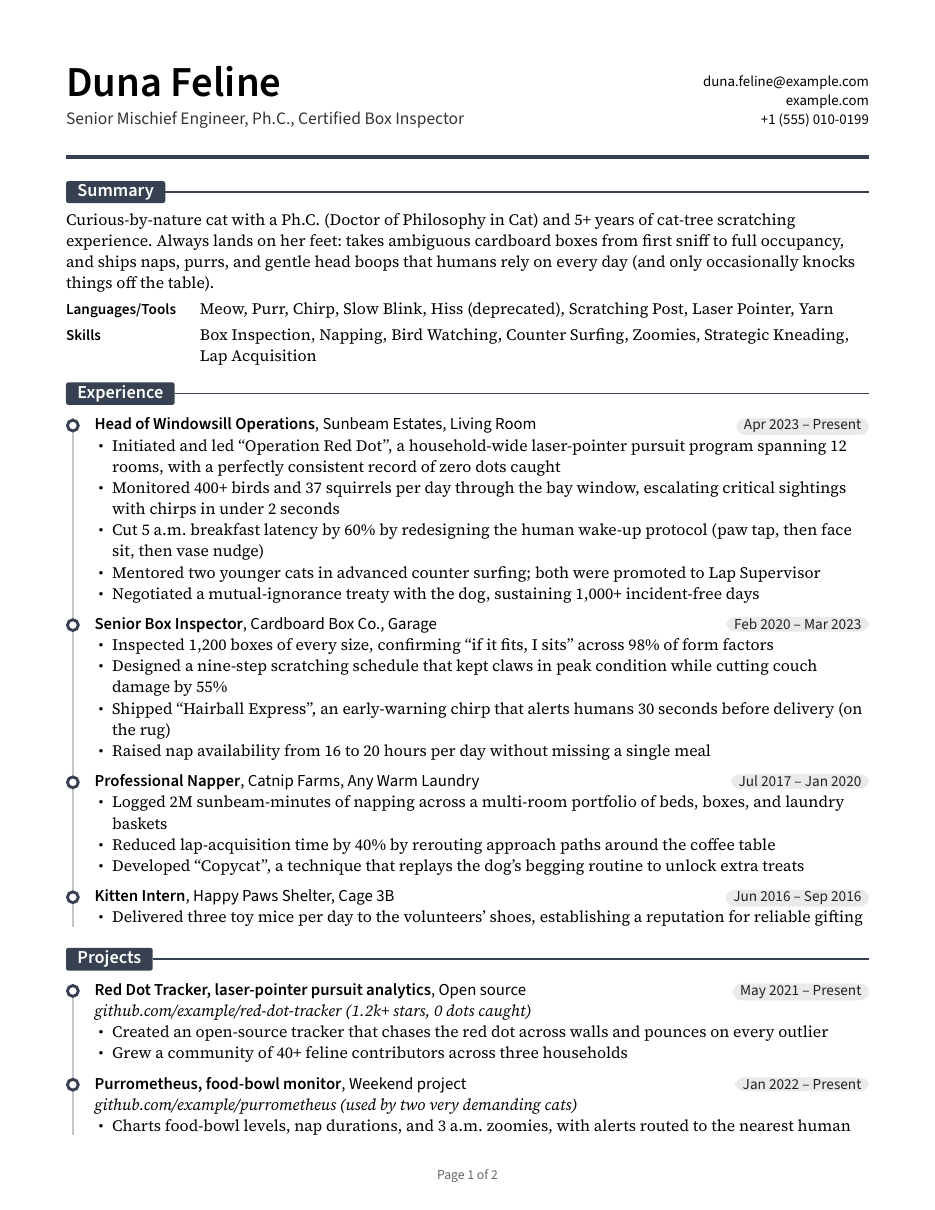
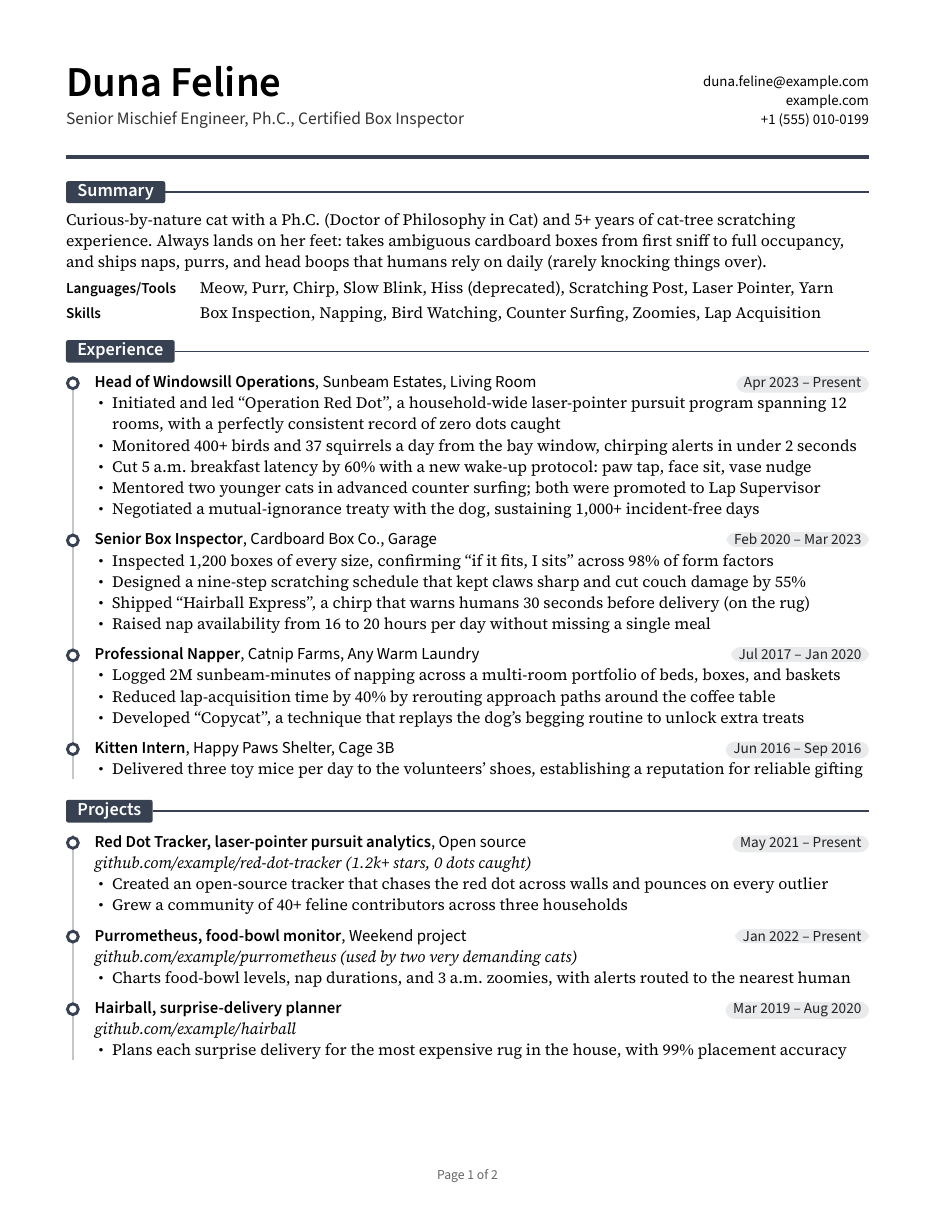
feat: sort publications, place awards after the venue, and flag short lines

Changed region(s): [[0.062, 0.214, 0.9305, 0.9479]]

diff --git a/canonical/resume.tex b/canonical/resume.tex
@@ -6,28 +6,28 @@
 \begin{document}
 
 \begin{summary}
-  Curious-by-nature cat with a Ph.C.\ (Doctor of Philosophy in Cat) and 5+ years of cat-tree scratching experience. Always lands on her feet: takes ambiguous cardboard boxes from first sniff to full occupancy, and ships naps, purrs, and gentle head boops that humans rely on every day (and only occasionally knocks things off the table).
+  Curious-by-nature cat with a Ph.C.\ (Doctor of Philosophy in Cat) and 5+ years of cat-tree scratching experience. Always lands on her feet: takes ambiguous cardboard boxes from first sniff to full occupancy, and ships naps, purrs, and head boops that humans rely on daily (rarely knocking things over).
   \skills{Languages/Tools}{Meow, Purr, Chirp, Slow Blink, Hiss (deprecated), Scratching Post, Laser Pointer, Yarn}
-  \skills{Skills}{Box Inspection, Napping, Bird Watching, Counter Surfing, Zoomies, Strategic Kneading, Lap Acquisition}
+  \skills{Skills}{Box Inspection, Napping, Bird Watching, Counter Surfing, Zoomies, Lap Acquisition}
 \end{summary}
 
 \begin{experience}
   \begin{role}{windowsill}
     \item Initiated and led ``Operation Red Dot'', a household-wide laser-pointer pursuit program spanning 12 rooms, with a perfectly consistent record of zero dots caught
-    \item Monitored 400+ birds and 37 squirrels per day through the bay window, escalating critical sightings with chirps in under 2 seconds
-    \item Cut 5 a.m.\ breakfast latency by 60\% by redesigning the human wake-up protocol (paw tap, then face sit, then vase nudge)
+    \item Monitored 400+ birds and 37 squirrels a day from the bay window, chirping alerts in under 2 seconds
+    \item Cut 5 a.m.\ breakfast latency by 60\% with a new wake-up protocol: paw tap, face sit, vase nudge
     \item Mentored two younger cats in advanced counter surfing; both were promoted to Lap Supervisor
     \item Negotiated a mutual-ignorance treaty with the dog, sustaining 1,000+ incident-free days
   \end{role}
   \begin{role}{cardboard}
     \item Inspected 1,200 boxes of every size, confirming ``if it fits, I sits'' across 98\% of form factors
-    \item Designed a nine-step scratching schedule that kept claws in peak condition while cutting couch damage by 55\%
-    \item Shipped ``Hairball Express'', an early-warning chirp that alerts humans 30 seconds before delivery (on the rug)
+    \item Designed a nine-step scratching schedule that kept claws sharp and cut couch damage by 55\%
+    \item Shipped ``Hairball Express'', a chirp that warns humans 30 seconds before delivery (on the rug)
     \item Raised nap availability from 16 to 20 hours per day without missing a single meal
       % \item Briefly piloted a sock-collection program (paused after the humans noticed)
   \end{role}
   \begin{role}{catnip-farms}
-    \item Logged 2M sunbeam-minutes of napping across a multi-room portfolio of beds, boxes, and laundry baskets
+    \item Logged 2M sunbeam-minutes of napping across a multi-room portfolio of beds, boxes, and baskets
     \item Reduced lap-acquisition time by 40\% by rerouting approach paths around the coffee table
     \item Developed ``Copycat'', a technique that replays the dog's begging routine to unlock extra treats
   \end{role}

diff --git a/tests/cases/page-breaks.tex b/tests/cases/page-breaks.tex
@@ -8,6 +8,13 @@
 \defrole{test-r4}{title = {Role 4}, org = {Org}, start = 2020-05, end = present}
 \defrole{test-r5}{title = {Role 5}, org = {Org}, start = 2020-06, end = present}
 \defproject{test-p}{title = {Project}, start = 2020-01, end = present}
+\defpub{test-pub0}{title = {Publication Title Number 0 That Wraps Onto a Second Line in the Layout}, venue = {Proc. of the Test Conference}, date = 2010-01, authors = {Author One, Author Two, and Author Three}}
+\defpub{test-pub1}{title = {Publication Title Number 1 That Wraps Onto a Second Line in the Layout}, venue = {Proc. of the Test Conference}, date = 2011-01, authors = {Author One, Author Two, and Author Three}}
+\defpub{test-pub2}{title = {Publication Title Number 2 That Wraps Onto a Second Line in the Layout}, venue = {Proc. of the Test Conference}, date = 2012-01, authors = {Author One, Author Two, and Author Three}}
+\defpub{test-pub3}{title = {Publication Title Number 3 That Wraps Onto a Second Line in the Layout}, venue = {Proc. of the Test Conference}, date = 2013-01, authors = {Author One, Author Two, and Author Three}}
+\defservice{test-s0}{text = {Service Item 0}, years = {2020}}
+\defservice{test-s1}{text = {Service Item 1}, years = {2020}}
+\defservice{test-s2}{text = {Service Item 2}, years = {2020}}
 \begin{document}
 \begin{summary}
   Summary text that takes a little space.
@@ -50,4 +57,6 @@
     \item Bullet text that is long enough to wrap onto a second line so the scan exercises multi-line bullets inside the spine
   \end{project}
 \end{projects}
+\publications{test-pub0, test-pub1, test-pub2, test-pub3}
+\service{test-s0, test-s1, test-s2}
 \end{document}

diff --git a/tests/cases/rendering.tex b/tests/cases/rendering.tex
@@ -8,8 +8,8 @@
 % expect-text: Example University — B.S. in Testing
 % expect-text: Dissertation: On Tests
 % expect-text: Are Tests Ready Yet? Proc. of Testing 2020
-% expect-text: A Paper Title. Journal of Tests
-% expect-text: Ada Lovelace, Test Author, and André Weil Best Paper Award
+% expect-text: A Paper Title. Journal of Tests Best Paper Award
+% expect-text: Ada Lovelace, Test Author, and André Weil
 % expect-text: Top 5% of class
 % expect-text: Languages/Tools
 % expect-text: Security-focused
@@ -21,8 +21,8 @@
 \defproject{test-solo}{title = {Solo Project}, start = 2018-08, end = 2019-12}
 \defdegree{test-phd}{school = {Example University}, location = {Testville}, degree = {Ph.D. in Testing}, start = 2015-09, end = 2020-05, dissertation = {On Tests}}
 \defdegree{test-bs}{school = {Example University}, degree = {B.S. in Testing}, start = 2011-09, end = 2015-06}
-\defpub{test-question}{title = {Are Tests Ready Yet?}, venue = {Proc. of Testing 2020}, authors = {Test Author}}
-\defpub{test-award}{title = {A Paper Title}, venue = {Journal of Tests}, authors = {Ada Lovelace, Test Author, and André Weil}, award = {Best Paper Award}}
+\defpub{test-question}{title = {Are Tests Ready Yet?}, venue = {Proc. of Testing 2020}, date = 2020-06, authors = {Test Author}}
+\defpub{test-award}{title = {A Paper Title}, venue = {Journal of Tests}, date = 2019-01, authors = {Ada Lovelace, Test Author, and André Weil}, award = {Best Paper Award}}
 \defhonor{test-percent}{text = {Top 5\% of class}, years = {2013, 2014}}
 \name{Test Author}  % independent of common/profile.tex, so this case is shared verbatim
 \headline{}

diff --git a/common/facts/publications.tex b/common/facts/publications.tex
@@ -1,24 +1,28 @@
 % Publications. The profile name is set in bold automatically in author lists.
-% Cite with \publications{<key>, <key>, ...}; entries are numbered in citation order.
+% Cite with \publications{<key>, <key>, ...}; entries print newest first by date (YYYY-MM).
 % Sample persona Duna Feline: papers and venues are fictional.
 \defpub{feline2019curiosity}{
   title = {Curiosity Killed the Rat: A Field Study of Indoor Rodent Detection},
   venue = {Proc. of the Annual Conference on Whisker Sciences (ACWS 2019)},
+  date = 2019-07,
   authors = {Duna Feline, Dudu Whiskers, and Nangnang Mittens},
   award = {Best Paper Award},
 }
 \defpub{whiskers2017box}{
   title = {If It Fits, It Sits: Are Cardboard Boxes Ready for Production?},
   venue = {Proc. of the Workshop on Boxes and Containers (WBC 2017)},
+  date = 2017-10,
   authors = {Dudu Whiskers, Duna Feline, and Mochi Paws},
 }
 \defpub{feline2016yarn}{
   title = {Untangling the Yarn: An Incremental Approach to Knot Resolution},
   venue = {Journal of Feline Engineering, vol. 9},
+  date = 2016-04,
   authors = {Duna Feline and Nangnang Mittens},
 }
 \defpub{feline2015flap}{
   title = {Schrödinger's Cat Flap: Doors That Are Both Open and Closed},
   venue = {Proc. of the Workshop on Hot Topics in Doors (HotDoors 2015)},
+  date = 2015-05,
   authors = {Duna Feline, Mochi Paws, and Dudu Whiskers},
 }

diff --git a/applications/2026-09-granary-senior-mouser/resume.tex b/applications/2026-09-granary-senior-mouser/resume.tex
@@ -13,14 +13,14 @@
 
 \begin{experience}
   \begin{role}{windowsill}
-    \item Monitored 400+ birds and 37 squirrels per day through the bay window, escalating critical sightings with chirps in under 2 seconds
+    \item Monitored 400+ birds and 37 squirrels a day from the bay window, chirping alerts in under 2 seconds
     \item Initiated and led ``Operation Red Dot'', a household-wide laser-pointer pursuit program spanning 12 rooms, with a perfectly consistent record of zero dots caught
     \item Mentored two younger cats in advanced counter surfing; both were promoted to Lap Supervisor
   \end{role}
   \begin{role}{cardboard}
     \item Inspected 1,200 boxes of every size, confirming ``if it fits, I sits'' across 98\% of form factors
-    \item Shipped ``Hairball Express'', an early-warning chirp that alerts humans 30 seconds before delivery (on the rug)
-    \item Designed a nine-step scratching schedule that kept claws in peak condition while cutting couch damage by 55\%
+    \item Shipped ``Hairball Express'', a chirp that warns humans 30 seconds before delivery (on the rug)
+    \item Designed a nine-step scratching schedule that kept claws sharp and cut couch damage by 55\%
   \end{role}
   \begin{role}{catnip-farms}
     \item Reduced lap-acquisition time by 40\% by rerouting approach paths around the coffee table

diff --git a/tests/cases/pub-order.tex b/tests/cases/pub-order.tex
@@ -1,0 +1,10 @@
+% expect: ok
+% expect-order: Newest Author | Middle Author | Same Month Author | Oldest Author
+\documentclass{resume}
+\defpub{test-old}{title = {Old}, venue = {V}, date = 2015-03, authors = {Oldest Author}}
+\defpub{test-new}{title = {New}, venue = {V}, date = 2024-11, authors = {Newest Author}}
+\defpub{test-mid}{title = {Mid}, venue = {V}, date = 2019-06, authors = {Middle Author}}
+\defpub{test-tie}{title = {Tie}, venue = {V}, date = 2019-06, authors = {Same Month Author}}
+\begin{document}
+\publications{test-old, test-mid, test-new, test-tie}
+\end{document}

diff --git a/tests/cases/bad-pub-date.tex b/tests/cases/bad-pub-date.tex
@@ -1,0 +1,6 @@
+% expect: error The pub 'test-pub' has date 'present'
+\documentclass{resume}
+\defpub{test-pub}{title = {T}, venue = {V}, date = present, authors = {A}}
+\begin{document}
+\publications{test-pub}
+\end{document}

diff --git a/README.md b/README.md
@@ -20,17 +20,17 @@ can't drift, and a template that is tested like code.
 
 ## ✨ Why this template is different
 
-|                                      |                                                                                                                                                                                                                              |
-| ------------------------------------ | ---------------------------------------------------------------------------------------------------------------------------------------------------------------------------------------------------------------------------- |
-| 🎨 **Modern, readable design**       | A single column with graphite section tabs, a timeline **spine** that links your roles and keeps flowing across page breaks, date pills, and Source Serif 4 + Source Sans 3 at a comfortable 10.5pt.                         |
-| 🧱 **Content-only resume files**     | The class owns the header, layout, and section order. Each `resume.tex` is just your summary, bullets, and a few keys. Drop a section by leaving it out.                                                                     |
-| 📚 **Facts live once**               | Job titles, dates, degrees, publications, service, and honors are defined once in `common/facts/` and cited by key. Your name is bolded in author lists automatically. Titles and author lists can't drift between versions. |
-| 🚨 **Typos fail the build**          | A wrong key, a missing field, a duplicate section, or an impossible date like `2024-13` stops the build with a message that names it.                                                                                        |
-| 📐 **No awkward page breaks**        | Pages break between bullets, never between a role title and its first bullet or a heading and its first entry. A test sweeps 51 page positions to prove it.                                                                  |
-| 🎯 **Canonical → tailored workflow** | Keep one complete canonical resume. `just new <company> <role>` snapshots it, with a `jd.md` and a `notes.md` that record why each variant differs.                                                                          |
-| 🤖 **Claude Code skills**            | `/customize-resume <JD>` and `/update-resume` run the workflows step by step; `CLAUDE.md` holds the rules (never invent or inflate claims); hooks auto-format and guard the repo.                                            |
-| 🔍 **ATS-friendly**                  | Real, selectable text in reading order, plain ASCII hyphens, and a single column.                                                                                                                                            |
-| 🧪 **Tested and CI'd**               | 14 template test cases, formatting checks, and every resume built on each push.                                                                                                                                              |
+|                                      |                                                                                                                                                                                                                                                                  |
+| ------------------------------------ | ---------------------------------------------------------------------------------------------------------------------------------------------------------------------------------------------------------------------------------------------------------------- |
+| 🎨 **Modern, readable design**       | A single column with graphite section tabs, a timeline **spine** that links your roles and keeps flowing across page breaks, date pills, and Source Serif 4 + Source Sans 3 at a comfortable 10.5pt.                                                             |
+| 🧱 **Content-only resume files**     | The class owns the header, layout, and section order. Each `resume.tex` is just your summary, bullets, and a few keys. Drop a section by leaving it out.                                                                                                         |
+| 📚 **Facts live once**               | Job titles, dates, degrees, publications, service, and honors are defined once in `common/facts/` and cited by key. Your name is bolded in author lists automatically, and publications sort newest first. Titles and author lists can't drift between versions. |
+| 🚨 **Typos fail the build**          | A wrong key, a missing field, a duplicate section, or an impossible date like `2024-13` stops the build with a message that names it.                                                                                                                            |
+| 📐 **No awkward page breaks**        | Pages break between bullets, never between a role title and its first bullet or a heading and its first entry. A test sweeps 51 page positions to prove it.                                                                                                      |
+| 🎯 **Canonical → tailored workflow** | Keep one complete canonical resume. `just new <company> <role>` snapshots it, with a `jd.md` and a `notes.md` that record why each variant differs.                                                                                                              |
+| 🤖 **Claude Code skills**            | `/customize-resume <JD>` and `/update-resume` run the workflows step by step; `CLAUDE.md` holds the rules (never invent or inflate claims); hooks auto-format and guard the repo.                                                                                |
+| 🔍 **ATS-friendly**                  | Real, selectable text in reading order, plain ASCII hyphens, and a single column.                                                                                                                                                                                |
+| 🧪 **Tested and CI'd**               | 16 template test cases, formatting checks, and every resume built on each push.                                                                                                                                                                                  |
 
 ## 📸 Screenshots
 

diff --git a/CLAUDE.md b/CLAUDE.md
@@ -107,8 +107,10 @@ docs/images/                     README screenshots of the sample persona (never
   Honors & Awards) regardless of source order; omit a section to drop it. Text outside the section
   environments and commands prints between the header and the first section, so keep all text inside
   sections.
-- Within a section, entries and listed keys print in source order; bullets print as written.
-- Dates in facts are `YYYY-MM` or `present`; the class formats them (`Aug 2024 – Present`).
+- Within a section, entries and listed keys print in source order, except publications, which print
+  newest first by their `date`; bullets print as written.
+- Dates in facts are `YYYY-MM` or `present`; the class formats them (`Aug 2024 – Present`). Every
+  publication needs a `date = YYYY-MM` (when it was published or presented), used only for sorting.
 
 ## Core rules
 
@@ -132,7 +134,9 @@ docs/images/                     README screenshots of the sample persona (never
 
 `just fmt` then `just check` must pass (and `just test` when `common/resume.cls` or `common/facts/`
 changed), then: no new overfull boxes or missing-font/character warnings, no unintended page-break
-changes (look at the PDF), and review `git diff`. A zero exit code alone is not enough.
+changes (look at the PDF), and review `git diff`. A zero exit code alone is not enough. `just check`
+also lists `Short line` wraps (a few words alone on a line); in a variant, reword them to save the
+line.
 
 ## Git
 

diff --git a/.claude/skills/customize-resume/SKILL.md b/.claude/skills/customize-resume/SKILL.md
@@ -71,6 +71,10 @@ the summary and (optionally) `\headline{...}`.
 Run `just fmt <dir>/resume.tex` and `just check <dir>`. It must report 2 pages (or fewer) with no
 warning lines. If it is over length, cut or tighten content; do not shrink fonts or margins.
 
+For each `Short line` it reports (a wrap that leaves only a few words on a line), reword that bullet
+or skills row to save the line without changing its meaning, and re-run. Lines that come from shared
+facts (titles, venues, dissertations) can't be reworded in a variant; list them in the report.
+
 ## 7. Record and report
 
 - Fill `<dir>/notes.md`: Application, JD Signals, Resume Strategy, Major Changes from Canonical.
